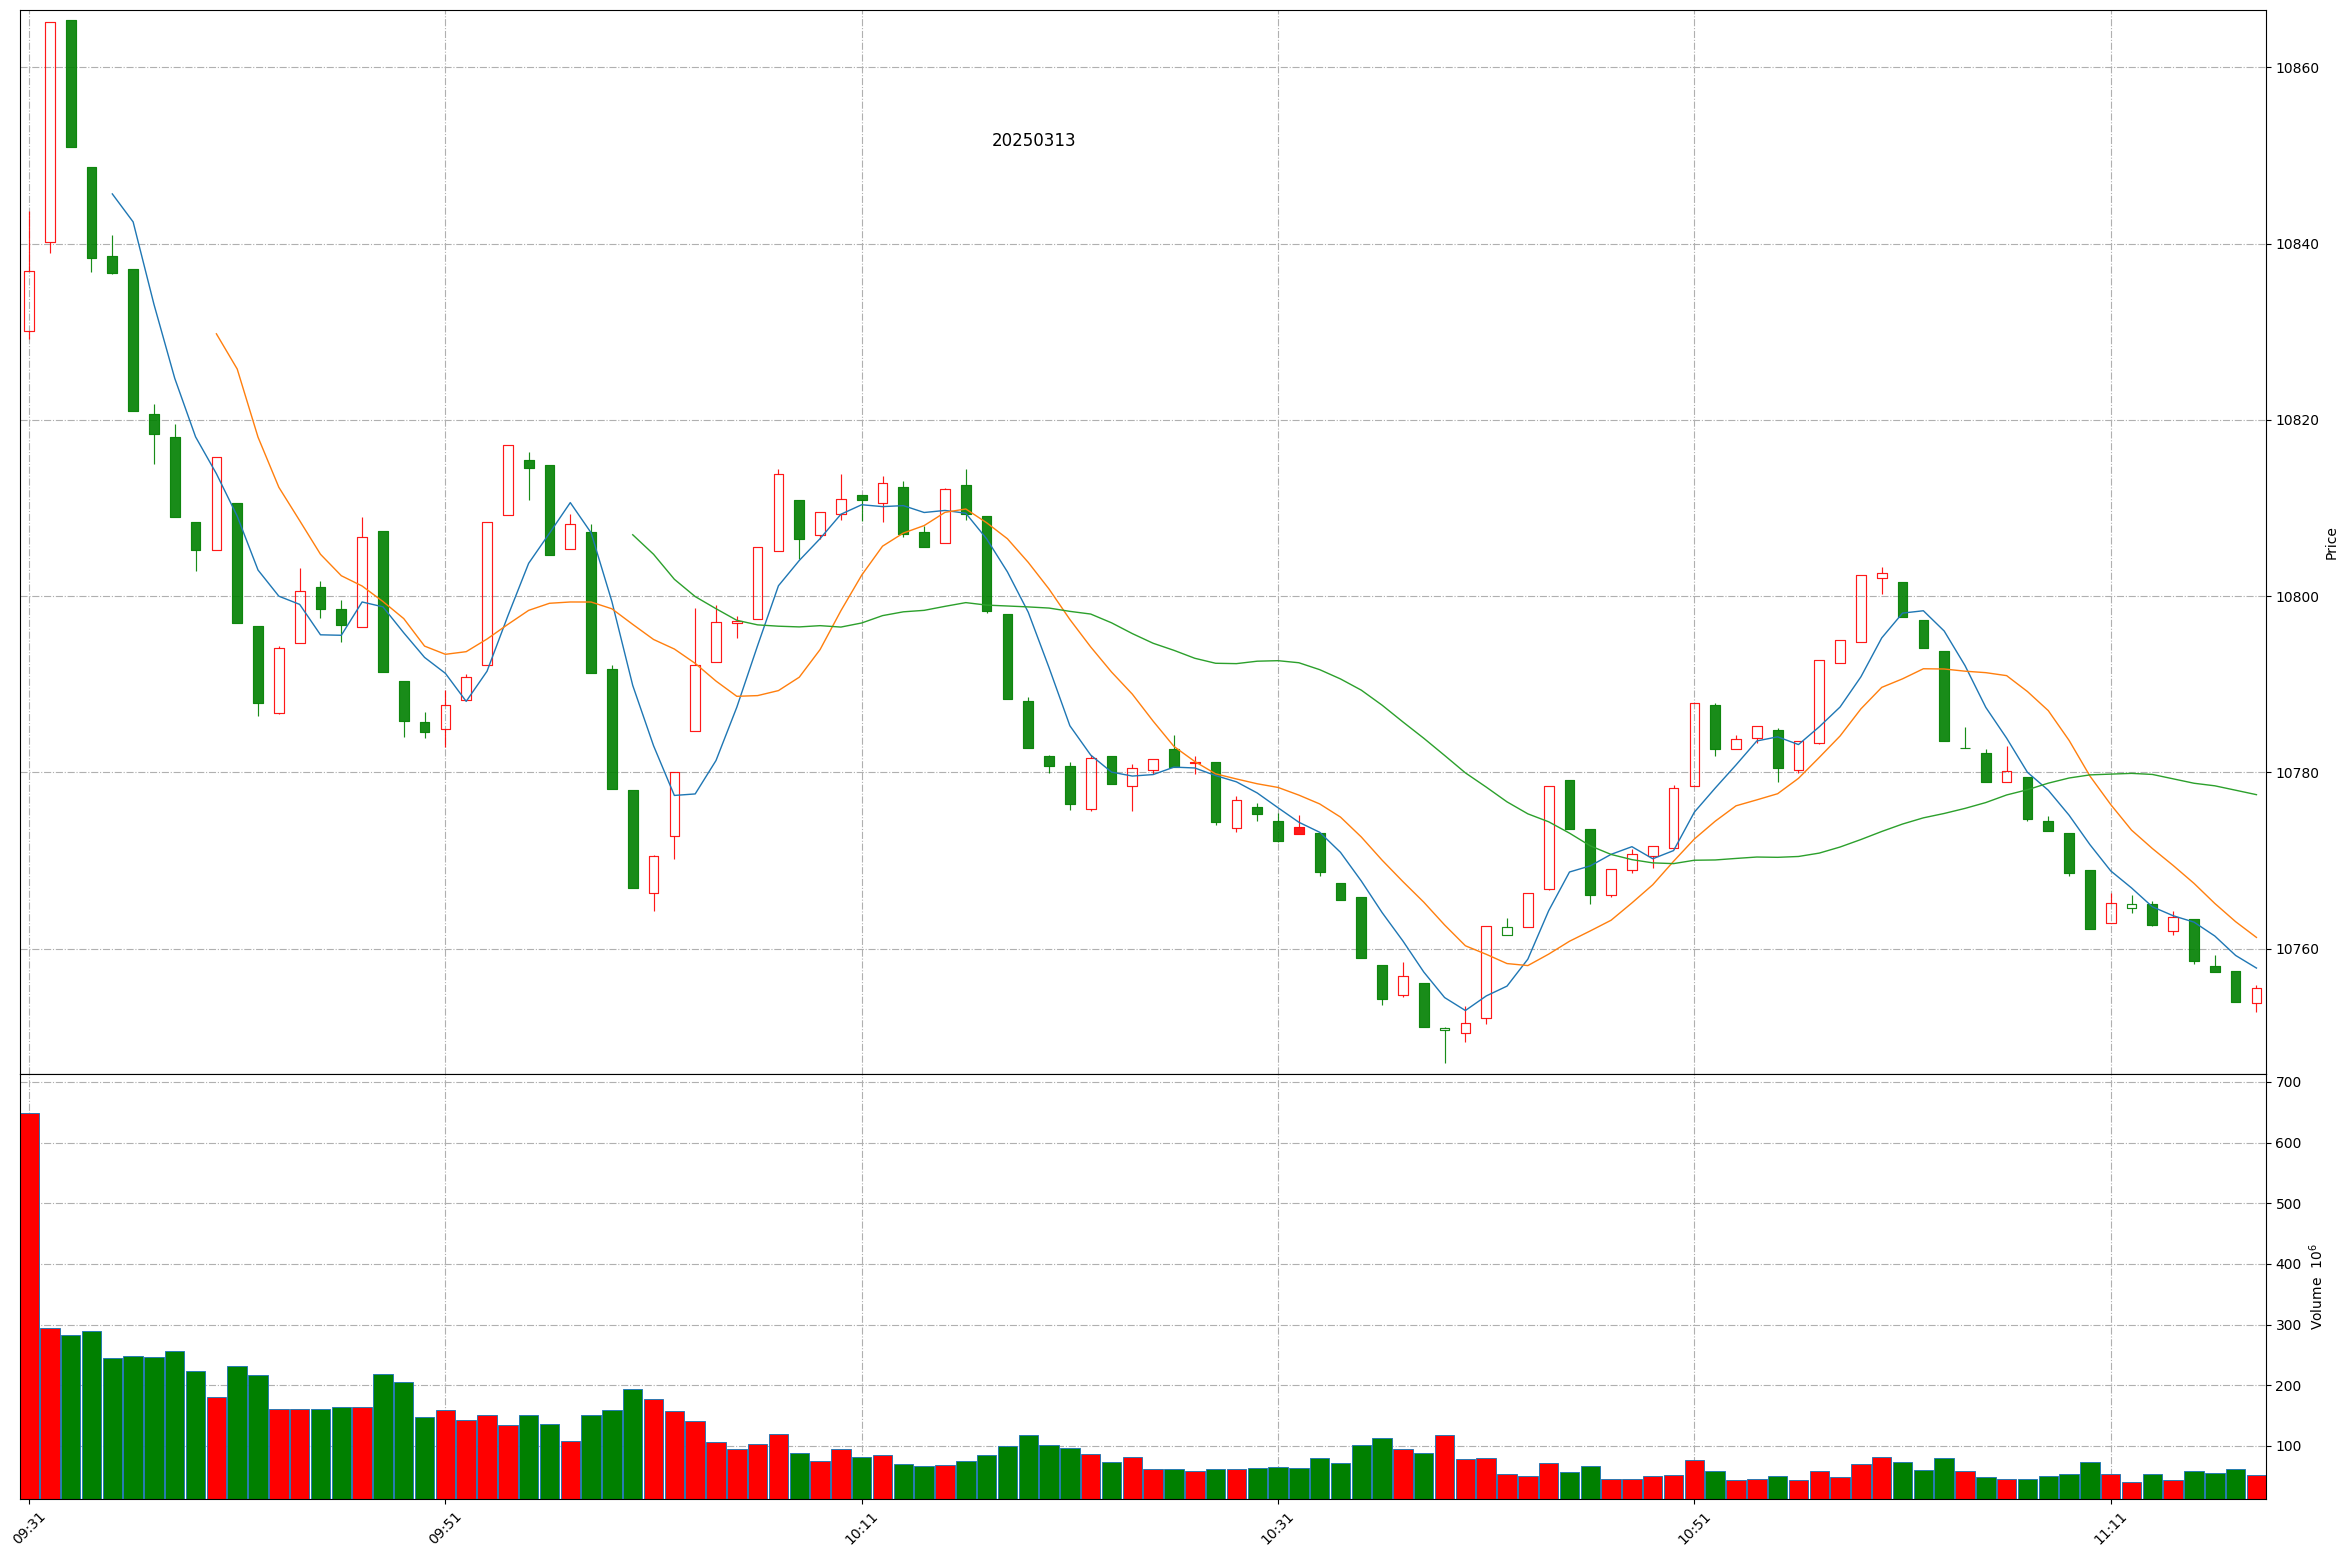
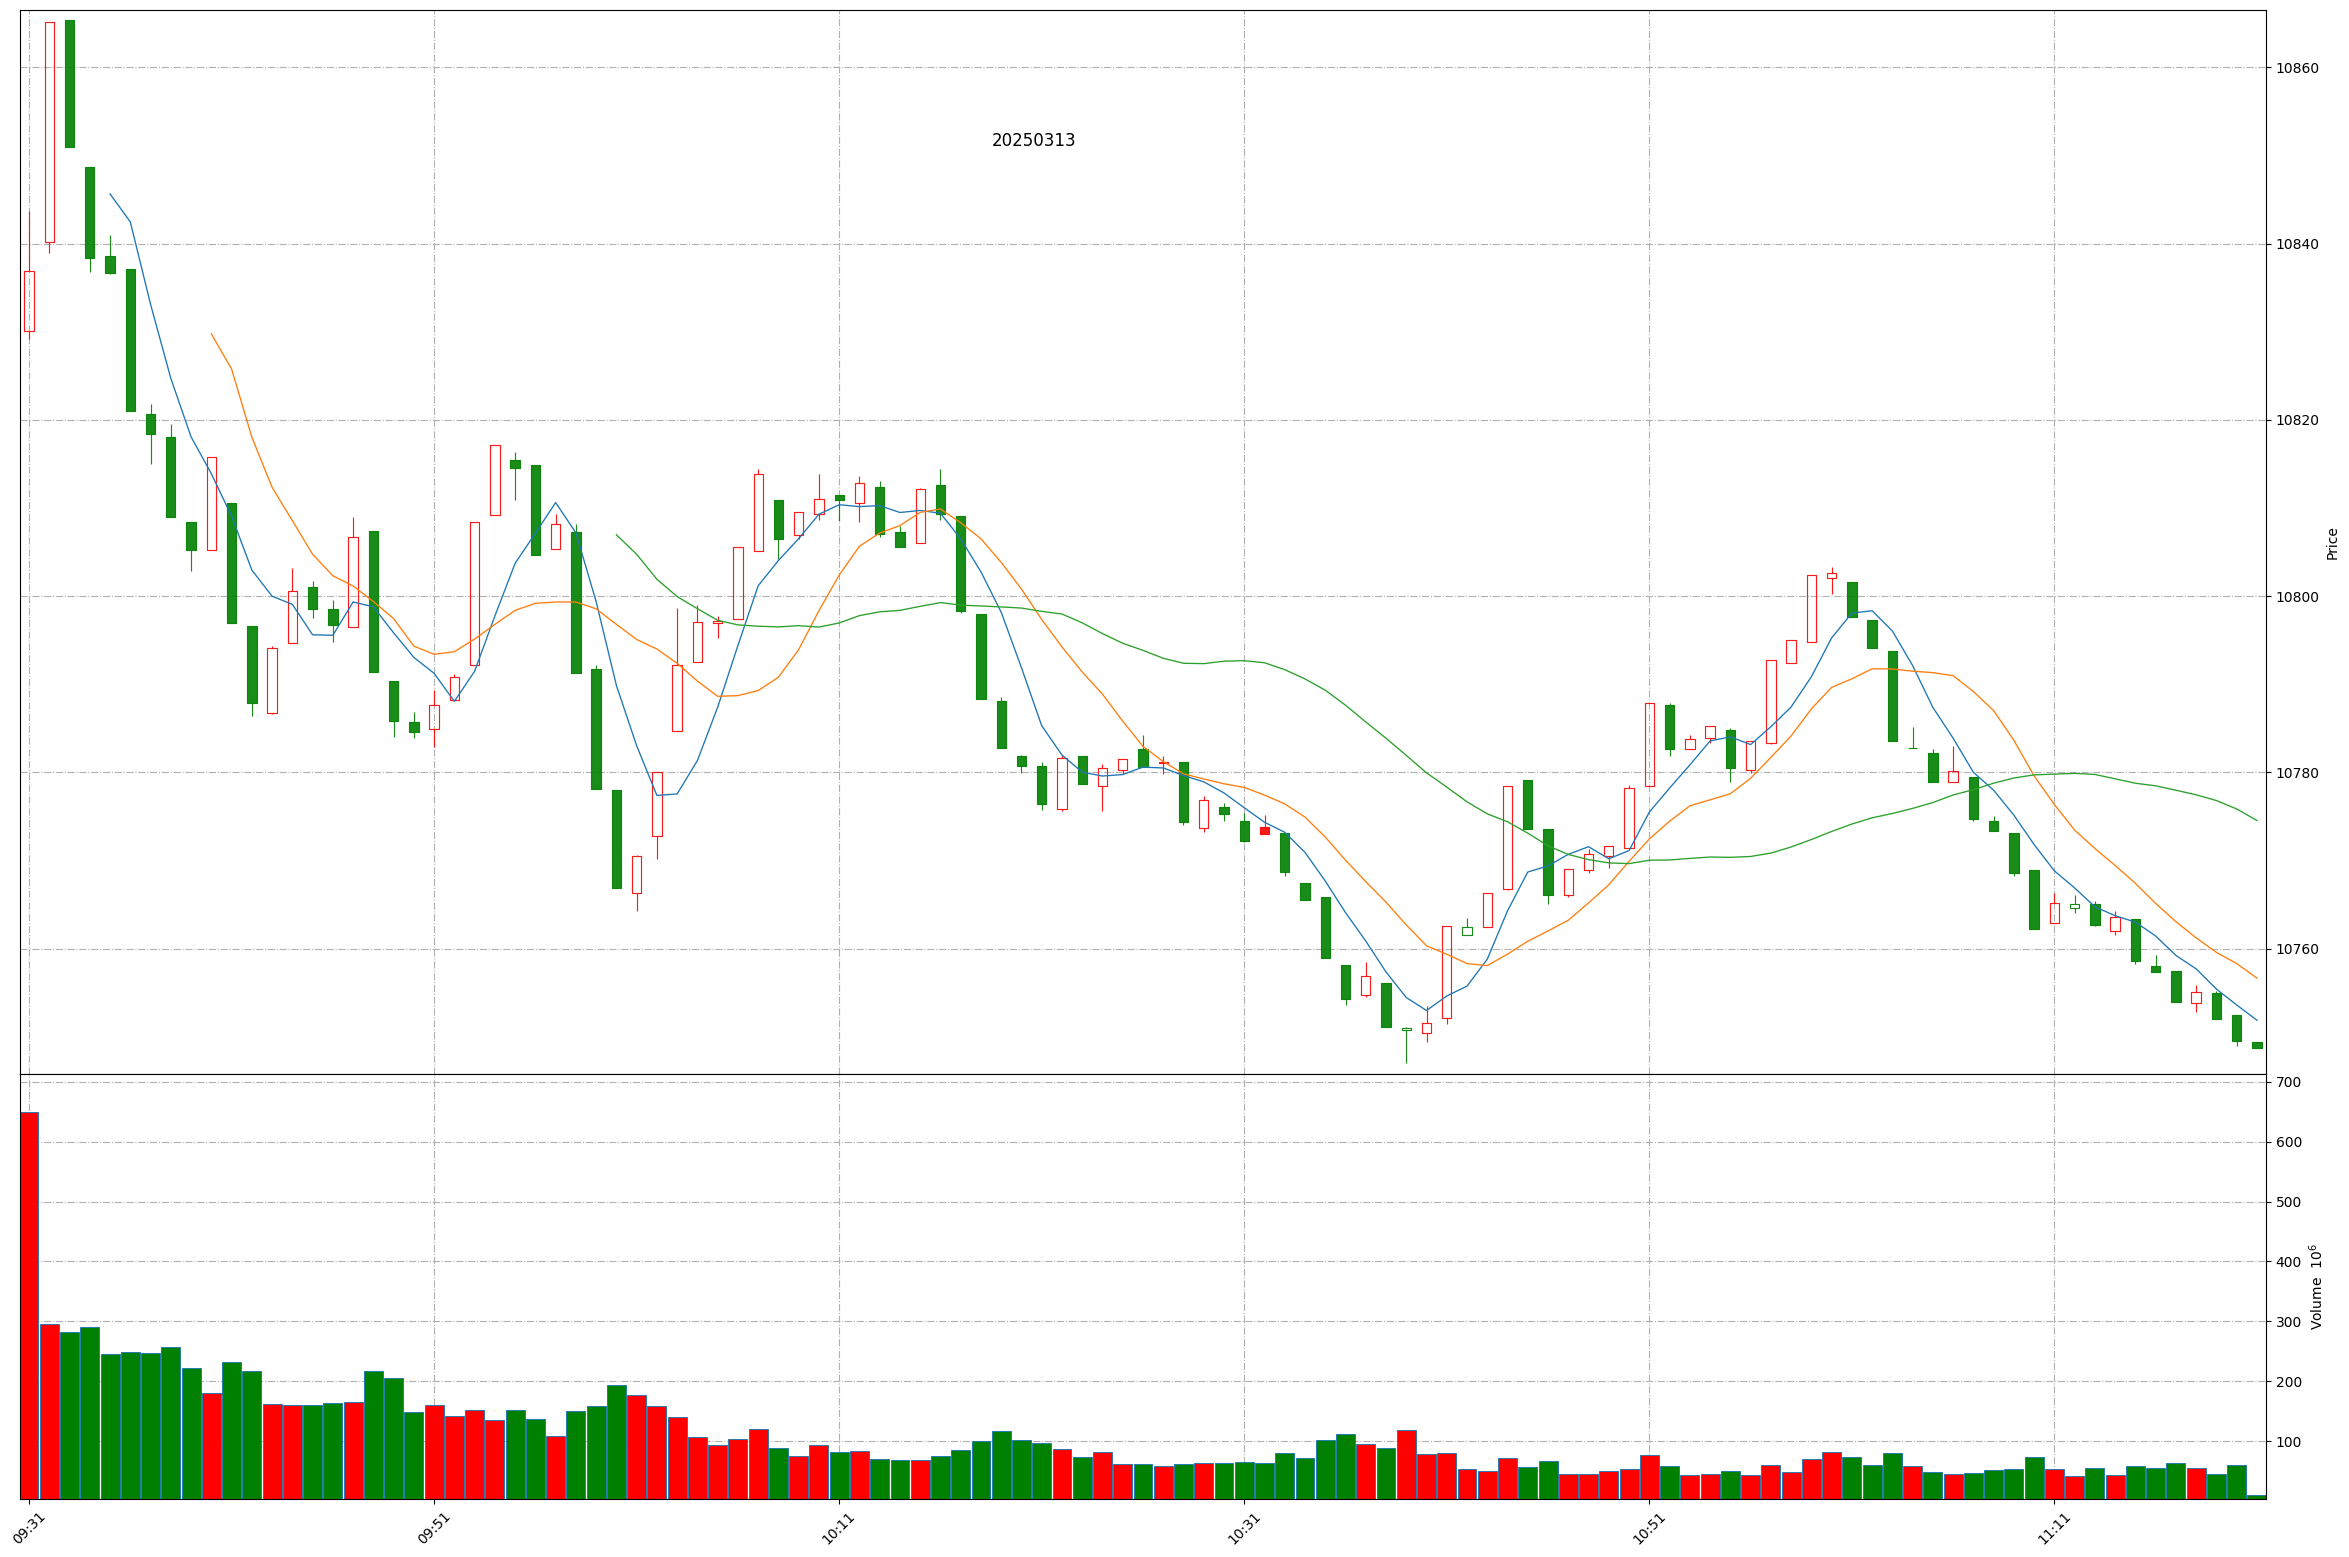
Github action update at 2025-03-13 11:20:16.

diff --git a/README.md b/README.md
@@ -1,11 +1,11 @@
 
 # Daily-A-share-market-quotes 每日 A 股指数（5min 更新）- 20250313
 
-### 上证指数 20250313 11:18
+### 上证指数 20250313 11:20
 ![](./fig/2025/3/20250313-sh000001.png)
 
-### 深证成指 20250313 11:18
+### 深证成指 20250313 11:20
 ![](./fig/2025/3/20250313-sz399001.png)
 
-### 北证50 20250313 11:18
+### 北证50 20250313 11:20
 ![](./fig/2025/3/20250313-bj899050.png)
